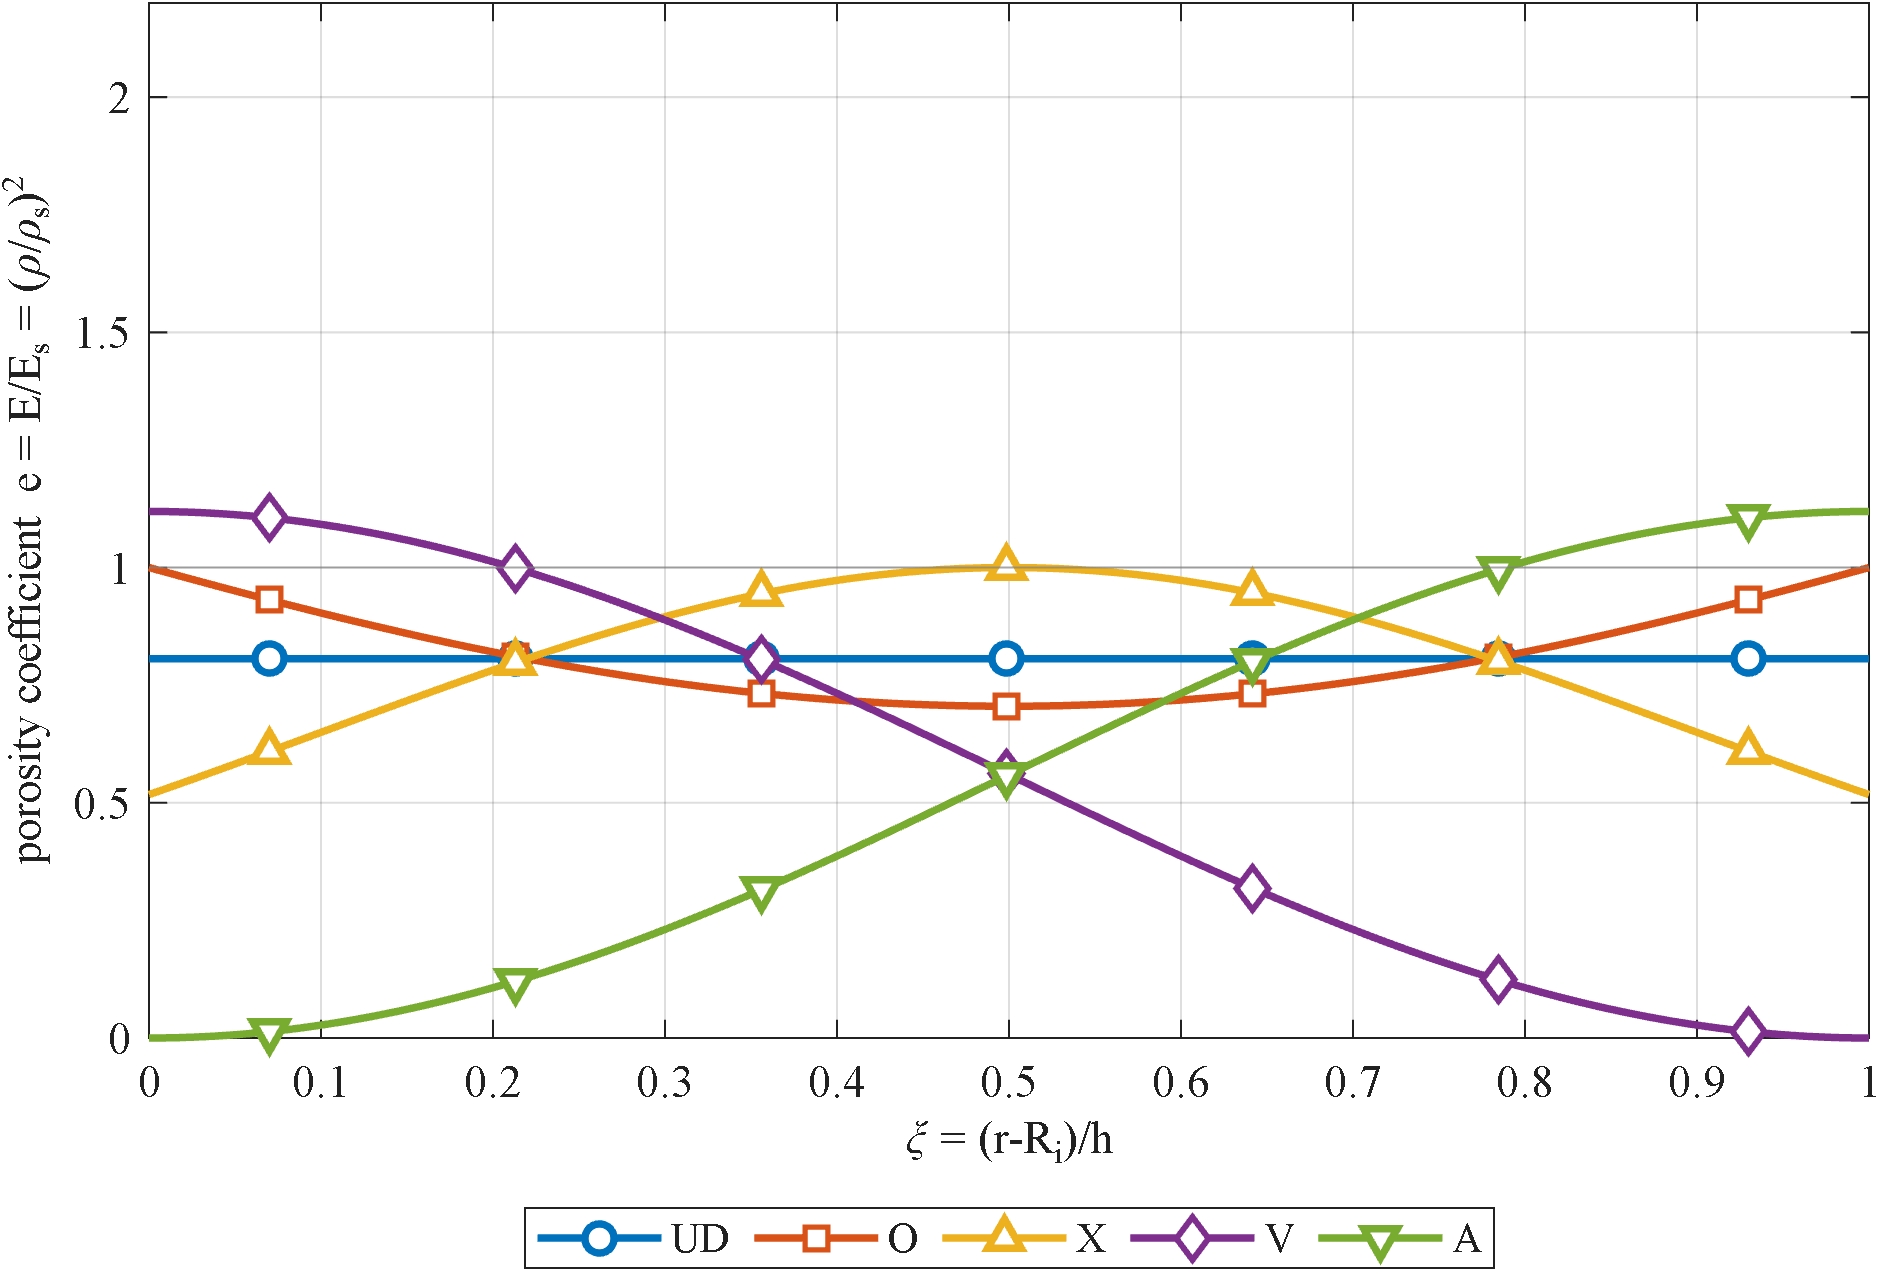
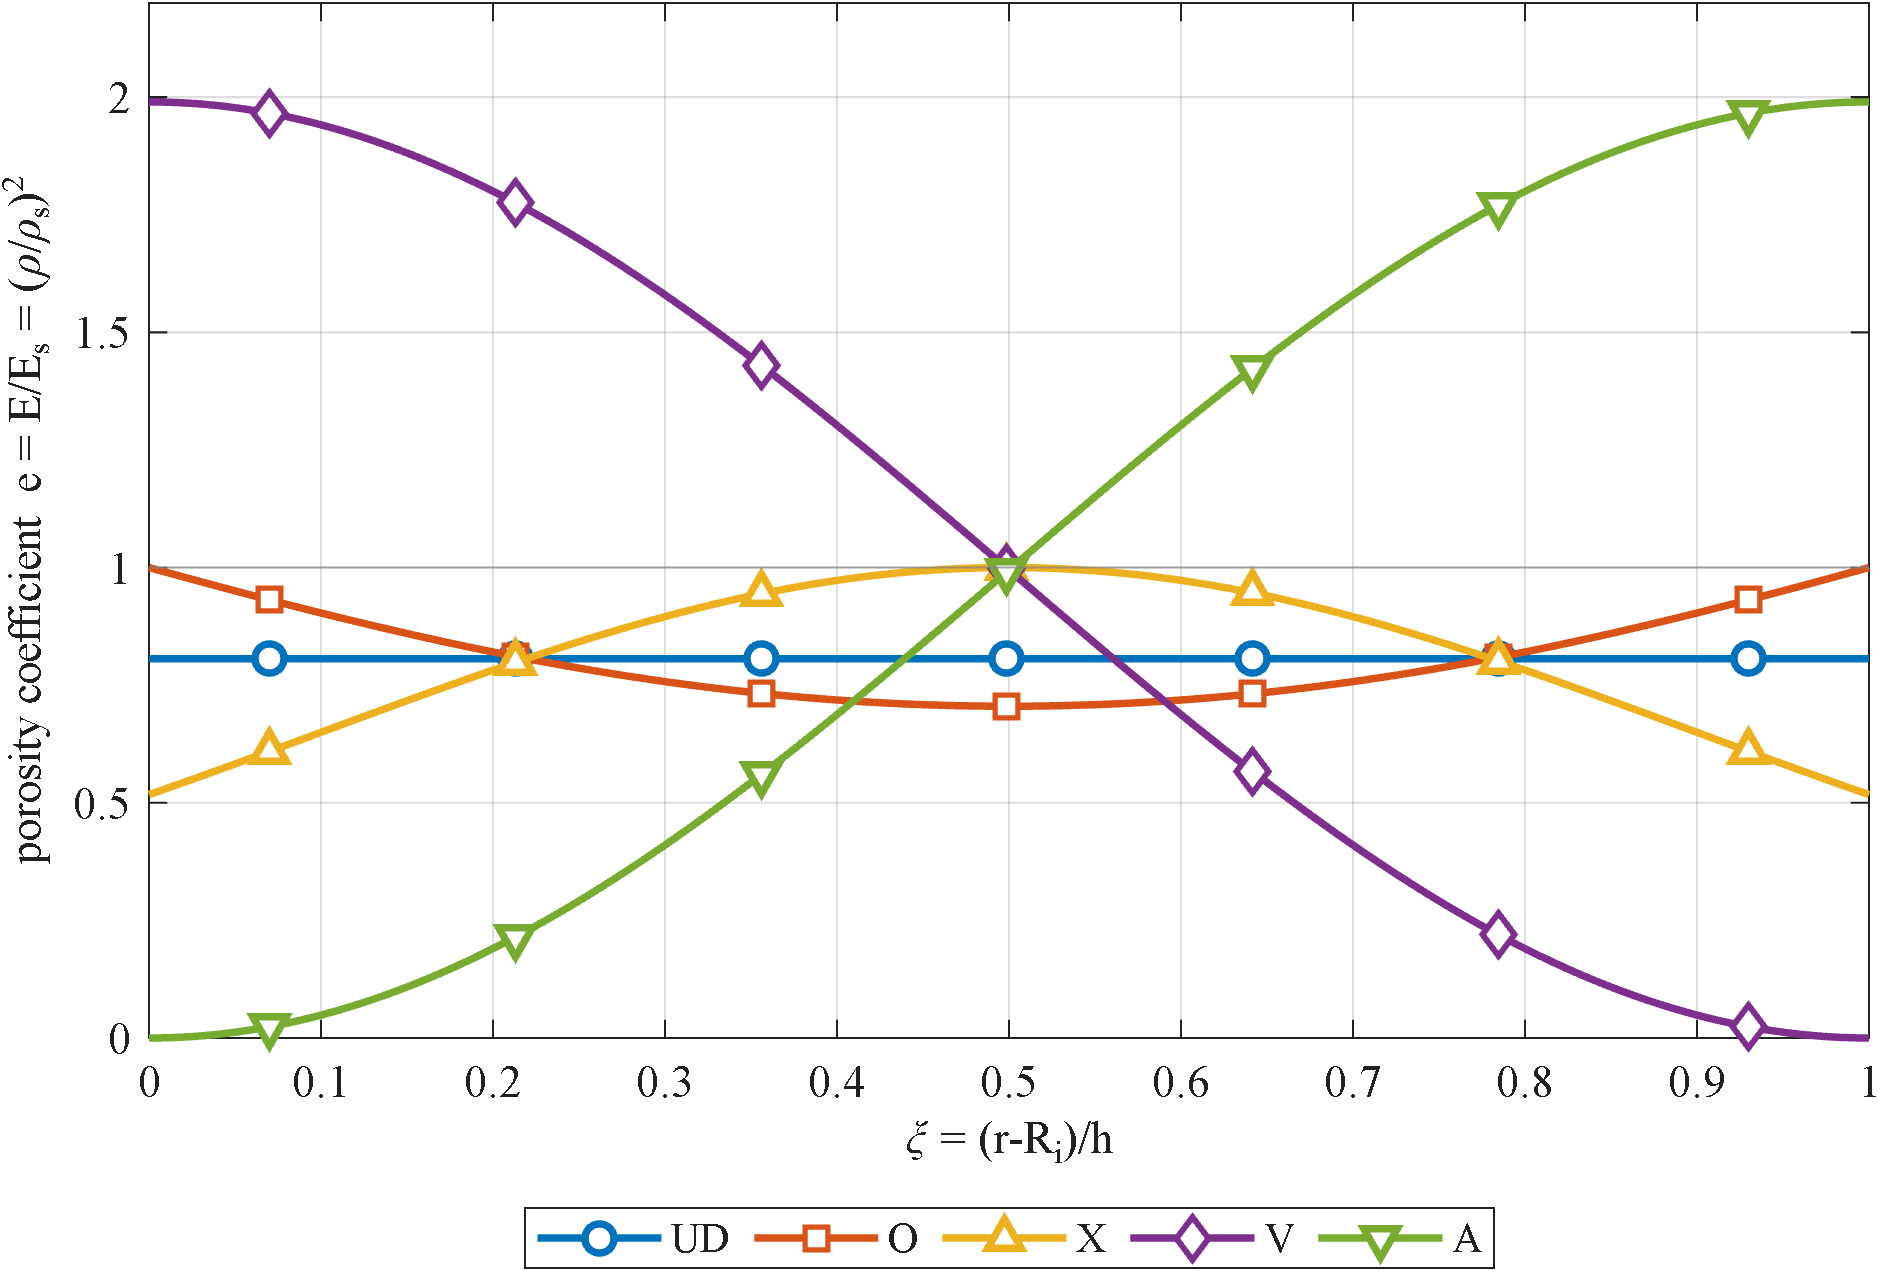
Fix: keep porosity_patterns_schematic.png untouched, save R2 alongside it
Previous commit (9e0a6fa) wrongly overwrote the original porosity
schematic in place. Author correction: never delete/overwrite a previous
version -- always save the new revision under its own filename next to
the old one. Restored porosity_patterns_schematic.png to its pre-R2
(coefficient=2) content byte-for-byte; added porosity_patterns_schematic_R2.png
(coefficient=1.5) as a new file. claude_ch123_figs_R2.m now writes the
porosity figure to the _R2 filename so future runs never clobber the
original again.

diff --git a/claude/code/catalog/claude_ch123_figs_R2.m b/claude/code/catalog/claude_ch123_figs_R2.m
@@ -2,7 +2,12 @@
 %  claude_ch123_figs_R2.m  —  SCHEMATIC FIGURES FOR CHAPTERS 2-3 (R2)
 %  Revision of claude_ch123_figs.m (kept frozen). Author request
 %  (2026-08-27): in the porosity V/A pattern formulas, the leading
-%  coefficient 2 -> 1.5 (Pm.V, Pm.A). No other change.
+%  coefficient 2 -> 1.5 (Pm.V, Pm.A). No other change. Per the author's
+%  revision-number rule, this script's porosity output is saved as a NEW
+%  file (porosity_patterns_schematic_R2.png) alongside the original
+%  (porosity_patterns_schematic.png, coefficient=2, untouched in git) --
+%  NOT overwriting it. The other 5 schematics still write to their
+%  original filenames since their content is unchanged by this edit.
 %  ------------------------------------------------------------------------
 %  Generates the 6 schematic PNGs referenced by the [شکل: ...] markers in the
 %  Persian thesis chapters 2-3 (and one taxonomy figure for chapter 2).
@@ -151,8 +156,8 @@ xlabel('\xi = (r-R_i)/h','FontSize',FSZ);
 ylabel('porosity coefficient  e = E/E_s = (\rho/\rho_s)^2','FontSize',FSZ);
 legend(pat,'Location','southoutside','Orientation','horizontal','FontSize',10);
 xlim([0 1]); ylim([0 2.2]); yline(1,'-','Color',[0.5 0.5 0.5],'HandleVisibility','off');
-exportgraphics(fig,fullfile(outdir,'porosity_patterns_schematic.png'),'Resolution',300);
-close(fig); fprintf('done: porosity_patterns_schematic.png\n');
+exportgraphics(fig,fullfile(outdir,'porosity_patterns_schematic_R2.png'),'Resolution',300);
+close(fig); fprintf('done: porosity_patterns_schematic_R2.png (R2 output -- porosity_patterns_schematic.png from claude_ch123_figs.m kept frozen/untouched)\n');
 
 %% ================================================================= FIG 4
 %  DQM_nodes_schematic.png : (a) radial CGL nodes/layer, (b) axial CGL nodes

diff --git a/claude/REVISIONS.md b/claude/REVISIONS.md
@@ -45,7 +45,7 @@
 | `FIGURE_CATALOG_R6_FA.docx` (+ `_R6.md`) | built from catalog **R6** (44 figures; color variant + EN pending author's selections) | on each catalog Rn the deliverables are renamed `_R<n>` too |
 | `claude_catalog_matrix25_4panel.m` → `matrix25_4panel.png/.fig` (bw + color) | **DONE (2026-08-25, author request)** | All 25 GPL×porosity cases overlaid in ONE standard Ch4 4-panel figure (T* vs Fo, U* vs Fo, T* vs ξ, Σ_θθ vs ξ) — a complement to the existing 5×5 grid-of-subplots view (`claude_catalog_R6_extras`) and per-porosity unpacking (`claude_catalog_gplpor`). Legibility scheme for 25 curves: **color = GPL pattern (5), marker shape = porosity pattern (5)** (MATLAB has only 4 line styles, so marker-shape realizes "style per porosity"); solid lines, white-face markers (Ch4 standard), compact 10-entry legend (5 GPL + 5 porosity) via dummy handles in panel 1. B&W variant uses 5 gray levels for GPL. Reads the 25 cached `H_<GPL>_<Por>.mat` (no solver runs). Inherently dense (25 curves) — temperature panels read cleanly; U* and layered hoop-stress panels are busy by nature. `claude_catalog_matrix25_4panel.m` kept frozen/untouched. |
 | `claude_catalog_matrix25_4figs.m` → `matrix25_T_Fo/U_Fo/T_xi/S_xi.png/.fig` (bw + color) | **DONE (2026-08-25, author request)** | Same 25-case dataset and color=GPL/marker=porosity scheme as `matrix25_4panel`, but split into **4 separate full-size figures** (one per quantity) instead of one 2×2 panel — each is bigger and reads more easily, especially the U* and hoop-stress ones. Not a revision of `matrix25_4panel` (different deliverable, same source data) — both kept. |
-| `claude_ch123_figs*.m` → `figures_ch123/*.png` (6 chapter-1/2/3 schematics: geometry, GPL patterns, porosity patterns, DQM nodes, flowchart, theory taxonomy) | **R2** (porosity schematic only) | Edited directly in place through 2026-08-26 (no `_R<n>` suffix, unversioned utility script — same standing as `claude_catalog_bestworst.m`): x-axis label simplified on the porosity schematic to `\xi = (r-R_i)/h` (author request, drops the verbose "through-thickness coordinate ... (ζ = ξ-1/2)" text to match every other Ch4 figure's bare-ξ convention). → **R2 (2026-08-27, author request, explicitly asked for a real revision this time)** = porosity V/A pattern leading coefficient **2 → 1.5** in `Pm.V`/`Pm.A` (lines 125-126) — lowers the V/A curves' peak/trough from ≈2/0 to ≈1.13/0 in `porosity_patterns_schematic.png`. Only the porosity schematic's data changed; the other 5 schematics are unchanged content, just re-exported since the script is one monolithic procedural file. `claude_ch123_figs.m` (pre-R2, i.e. the state through the label fix) kept frozen/untouched. **Not yet propagated**: `claude_ch3_gpl_porosity_stacked.m` duplicates the same `Pm.V`/`Pm.A` formula inline (still uses coefficient 2) — will show inconsistent V/A peaks vs. this R2 schematic until synced. |
+| `claude_ch123_figs*.m` → `figures_ch123/*.png` (6 chapter-1/2/3 schematics: geometry, GPL patterns, porosity patterns, DQM nodes, flowchart, theory taxonomy) | **R2** (porosity schematic only) | Edited directly in place through 2026-08-26 (no `_R<n>` suffix, unversioned utility script — same standing as `claude_catalog_bestworst.m`): x-axis label simplified on the porosity schematic to `\xi = (r-R_i)/h` (author request, drops the verbose "through-thickness coordinate ... (ζ = ξ-1/2)" text to match every other Ch4 figure's bare-ξ convention). → **R2 (2026-08-27, author request, explicitly asked for a real revision this time)** = porosity V/A pattern leading coefficient **2 → 1.5** in `Pm.V`/`Pm.A` (lines 125-126) — lowers the V/A curves' peak/trough from ≈2/0 to ≈1.13/0. Author corrected the first pass of this revision (which had overwritten `porosity_patterns_schematic.png` in place) — **output kept alongside, not overwriting**: `porosity_patterns_schematic.png` (coefficient=2, original, untouched in git) and the new `porosity_patterns_schematic_R2.png` (coefficient=1.5) both exist side by side; `claude_ch123_figs_R2.m` writes the porosity figure to the `_R2` filename specifically so future runs never clobber the original. Only the porosity schematic's data changed; the other 5 schematics are unchanged content and still write to their original filenames (unversioned, re-exported in place per this script's established handling). `claude_ch123_figs.m` (pre-R2, i.e. the state through the label fix) kept frozen/untouched. **Not yet propagated**: `claude_ch3_gpl_porosity_stacked.m` duplicates the same `Pm.V`/`Pm.A` formula inline (still uses coefficient 2) — will show inconsistent V/A peaks vs. this R2 schematic until synced. |
 
 <!-- 2026-08-06 PLOTTING-RULE SWEEP: author's strict MATLAB rules (no title()/sgtitle()/floating text(), only axis/tick labels + legend; color figures solid lines only, B&W figures keep varied line styles as the color-free differentiator) applied across every active AND archived figure script. claude_catalog_R6.m/_R6_color.m/gplpor.m/bestworst.m were already compliant from an earlier pass. Fixed: claude_ch123_figs.m, claude_catalog_R6_full.m, _R6_extras.m, _ch4_variants.m, _conv.m, the validation/anim/extensions scripts, and all 15 files in code/_archive/ (source-only, not re-run — dead code). Two content-necessary exceptions kept (author-confirmed): the flowchart/taxonomy box labels in claude_ch123_figs.m (the text IS the diagram), and the 25-matrix per-cell identity titles (required by Prom.4's "row/column labels on every subplot"). While fixing this, found and fixed a REAL bug: claude_catalog_R6_full.m/_R6_extras.m/_ch4_variants.m/_conv.m used relative output paths, and MATLAB's run() changes cwd to the script's own folder, so the FIRST attempt at this sweep silently wrote 85+ regenerated figures into code/catalog/figures_ch4* instead of the real claude/figures_ch4* — same class of bug as the chapter_stats_ch4.m fix below. Switched to absolute CLROOT-based paths (matching claude_chapter_stats_ch4.m's established fix), cleaned up the debris, regenerated correctly, reconciled the staging-folder (figures_ch4/) → embedded-folder (figures_ch4_bw/_color) copies that the fix exposed. -->
 
